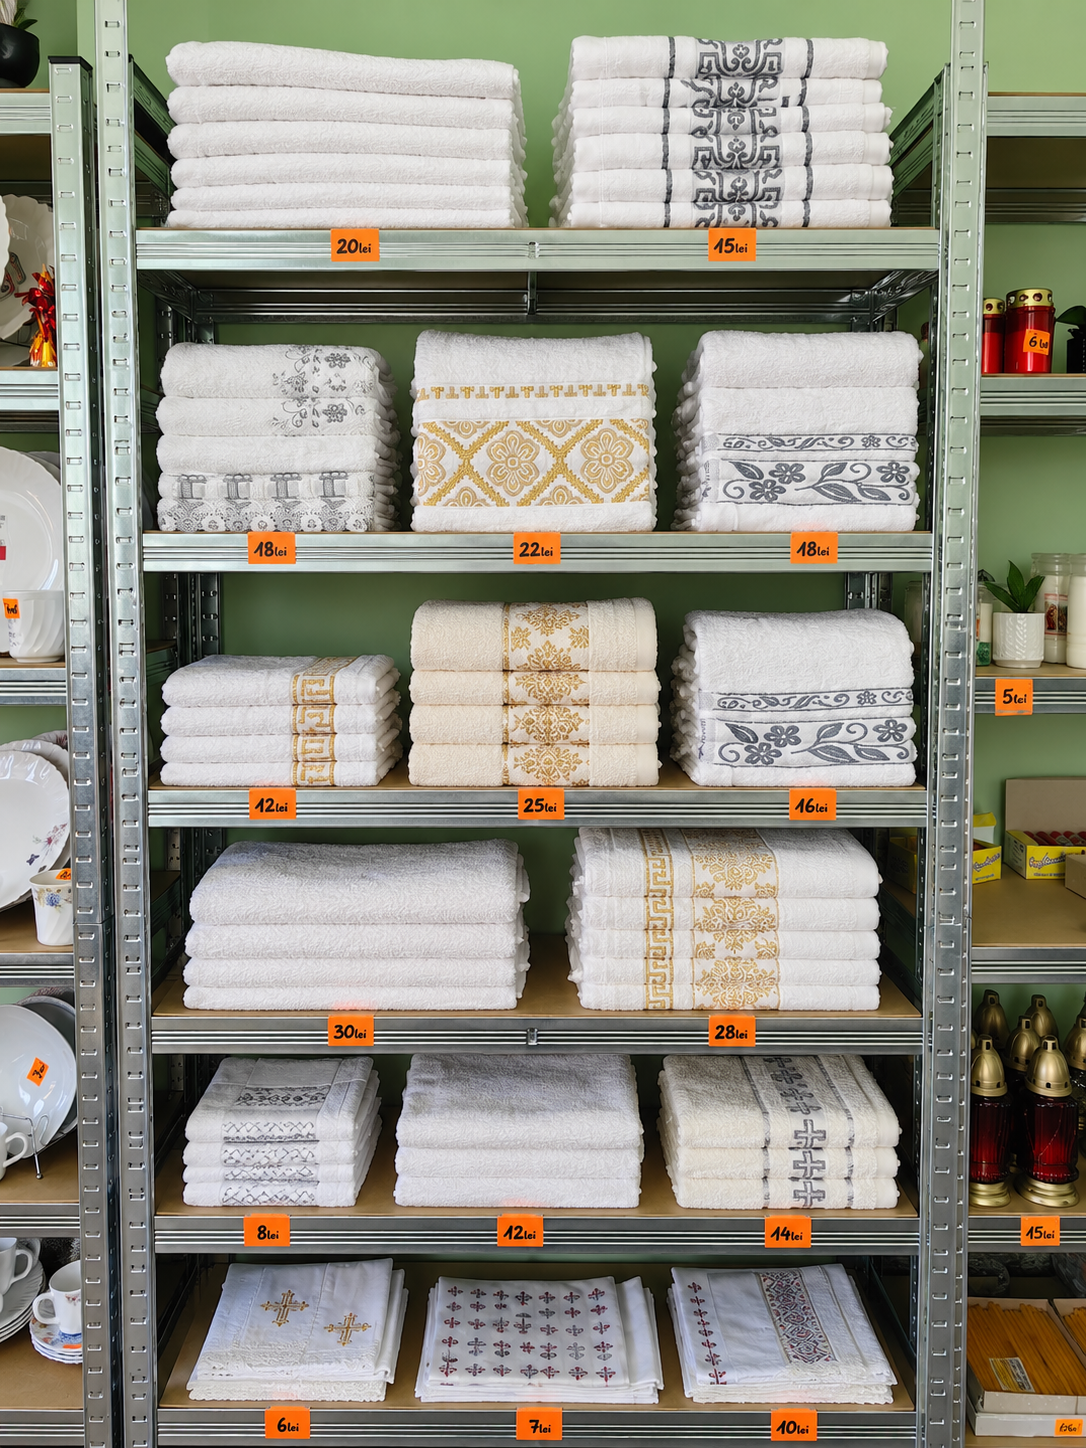
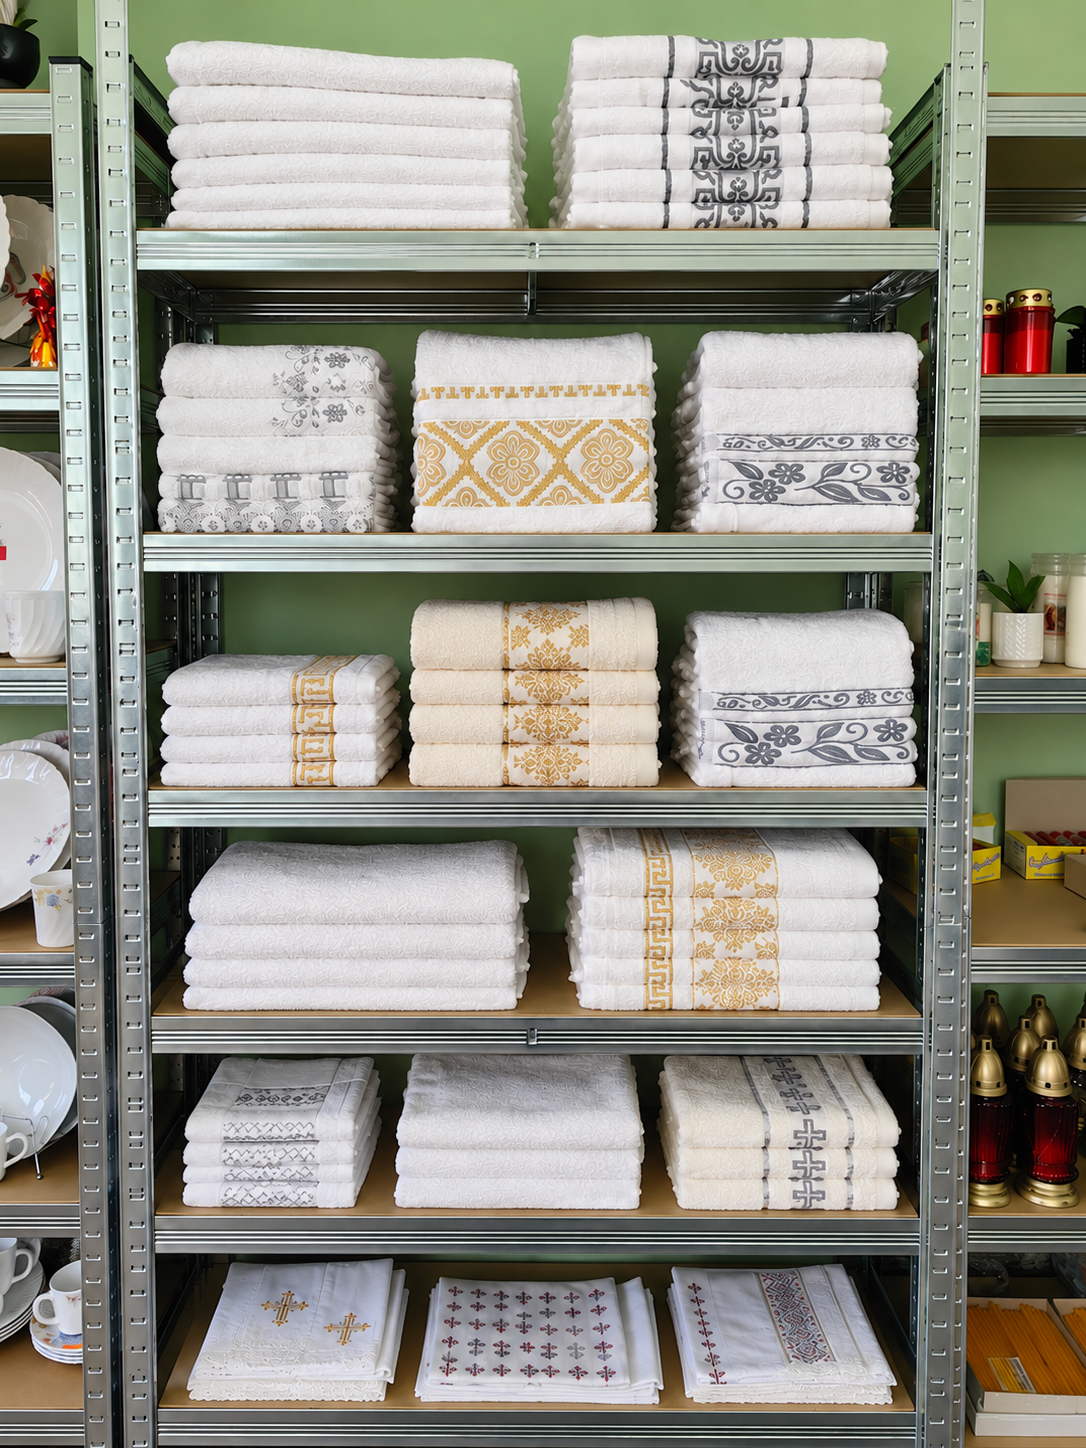
Fix images

diff --git a/src/data/content.js b/src/data/content.js
@@ -229,17 +229,17 @@ export const SHOP = [
   {
     img: 'magazin-lumanari',
     title: 'Lumânări și candele',
-    alt: 'Raft cu candele, lumânări de altar și felinare, cu prețurile afișate',
+    alt: 'Raft cu candele, lumânări de altar și felinare',
   },
   {
     img: 'magazin-prosoape',
     title: 'Prosoape',
-    alt: 'Raft cu prosoape albe și crem, cu modele aurii și gri, cu prețurile afișate',
+    alt: 'Raft cu prosoape albe și crem, cu modele aurii și gri',
   },
   {
     img: 'magazin-vesela',
     title: 'Veselă pentru pomană',
-    alt: 'Raft cu farfurii, căni, pahare și boluri, cu prețurile afișate',
+    alt: 'Raft cu farfurii, căni, pahare și boluri',
   },
   {
     img: 'magazin-baticuri',

diff --git a/src/components/Portfolio.jsx b/src/components/Portfolio.jsx
@@ -73,7 +73,7 @@ export default function Portfolio() {
       <Zone
         id="magazin"
         title="Magazin"
-        text="Lumânări, candele, prosoape, baticuri și veselă pentru pomană, cu prețurile la vedere."
+        text="Lumânări, candele, prosoape, baticuri și veselă pentru pomană."
       >
         <PhotoTiles
           items={SHOP}
